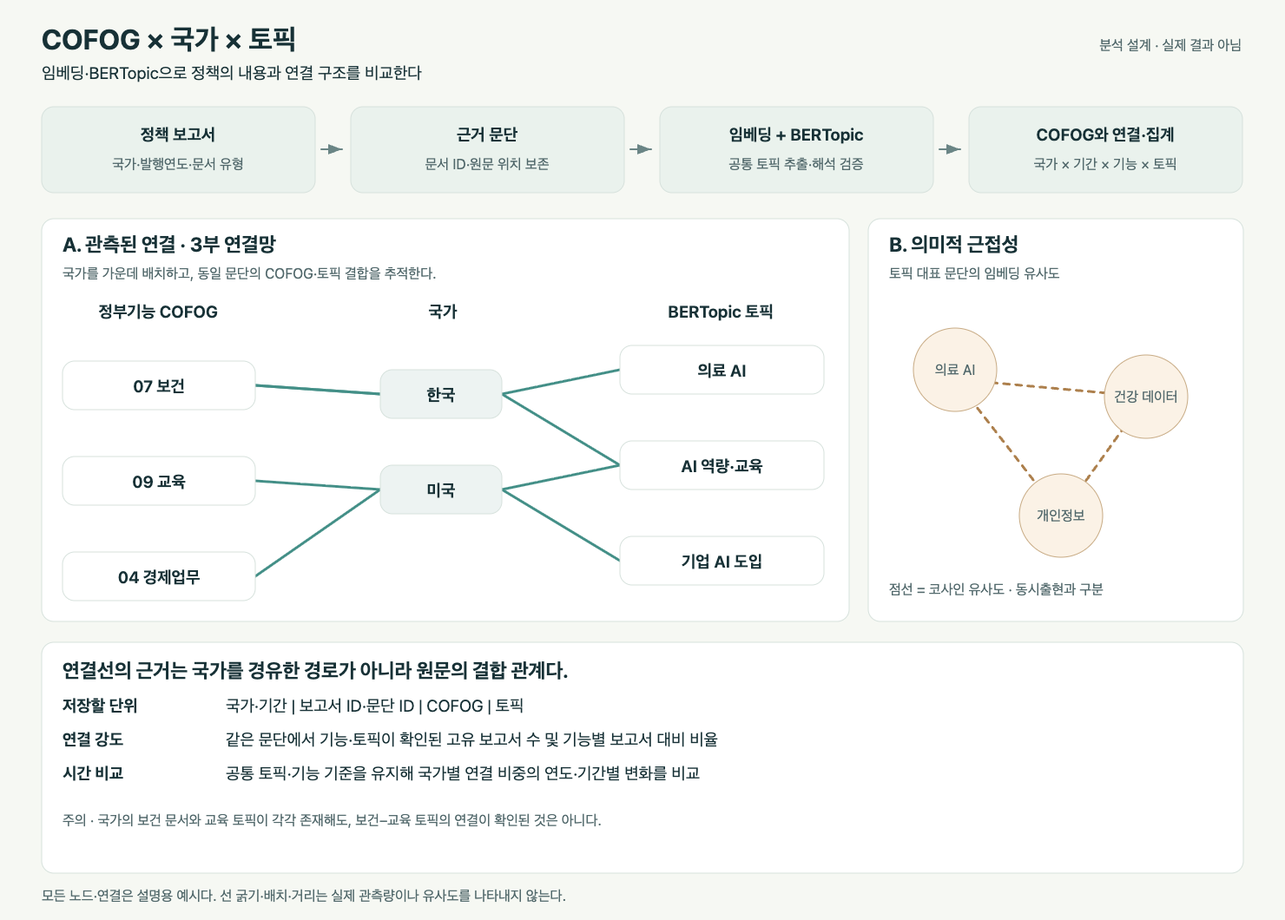
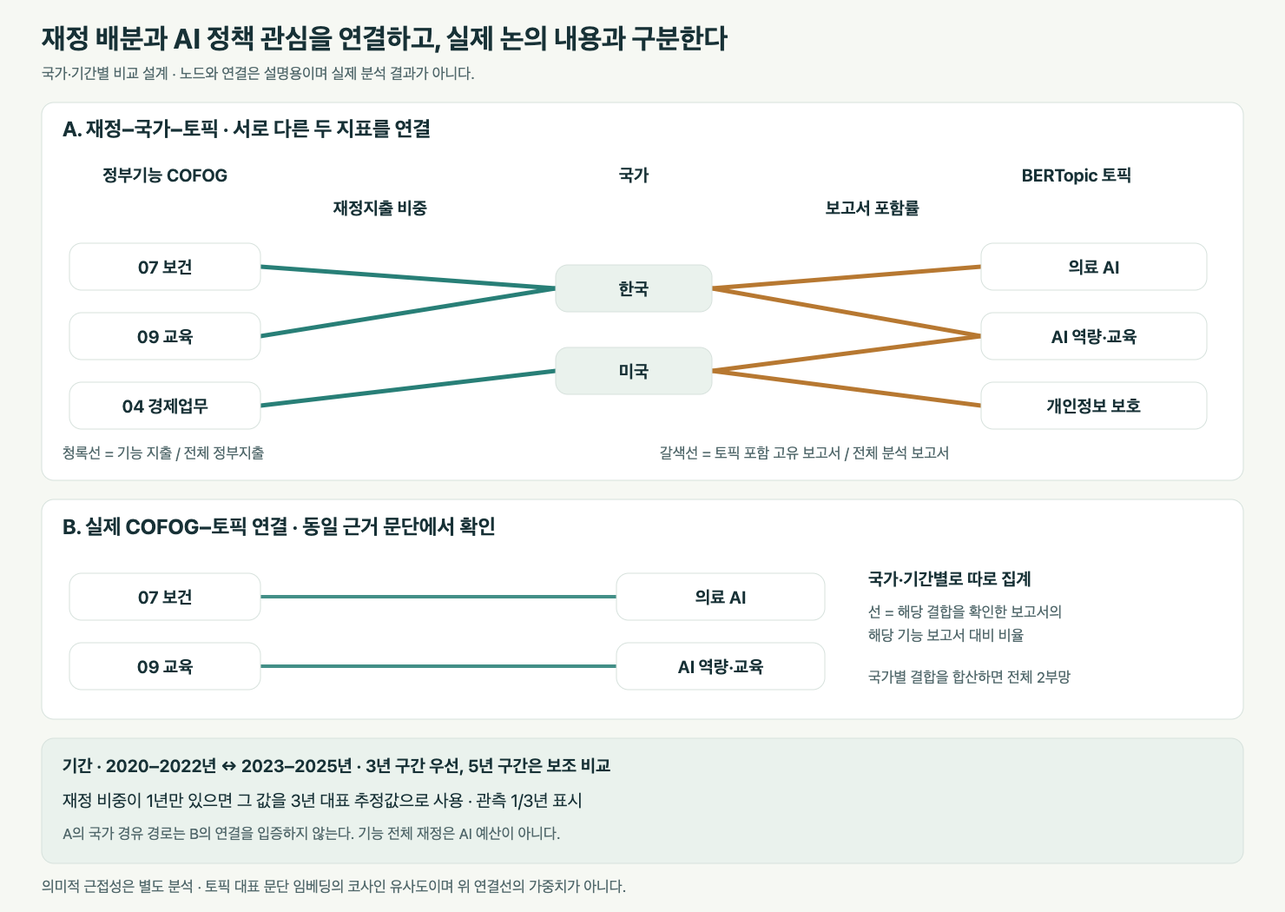
Separate fiscal attention network from evidence links and define three-year estimates

diff --git a/assets/research/cofog-ai-policy/index.html b/assets/research/cofog-ai-policy/index.html
@@ -5,15 +5,13 @@
 
 .two-by-two{margin:24px 0}.axis-y,.axis-x{font-size:14px;font-weight:700;padding:12px 0}.axis-x{text-align:center}.quadrant-grid{display:grid;grid-template-columns:1fr 1fr;border:1px solid var(--line);border-radius:12px;overflow:hidden}.quadrant-cell{padding:22px;min-height:168px;background:white}.quadrant-cell:nth-child(odd){border-right:2px dashed #8da9a1}.quadrant-cell:nth-child(-n+2){border-bottom:2px dashed #8da9a1}.quadrant-cell h4{font-size:18px;line-height:1.5;margin:10px 0}.quadrant-cell p{font-size:14px;margin-bottom:0}.quadrant-code{font-size:12px;color:var(--muted)}.q-both{background:#eaf2ed}.q-fiscal{background:#fbf2e6}.q-discussion{background:#edf2f5}.q-low{background:#f7f8f5}figcaption{font-size:13px;color:var(--muted);margin-top:12px}.chart-tabs{display:flex;gap:8px;flex-wrap:wrap;margin:20px 0}.chart-tabs button{background:white;border:1px solid var(--line);border-radius:8px;padding:10px 16px;font:inherit;color:var(--ink);cursor:pointer}.chart-tabs button[aria-pressed=true]{background:var(--teal);color:white;border-color:var(--teal)}.chart-filters{display:grid;grid-template-columns:repeat(2,minmax(0,1fr));gap:12px 20px}.chart-filters label{margin:0;font-weight:600}.chart-filters select{display:block;width:100%;min-width:0;padding:10px;margin-top:6px;background:white;border:1px solid var(--line);border-radius:8px;font:inherit;color:var(--ink)}.chart-filters [hidden]{display:none}.fiscal-chart{background:white;overflow-x:auto;min-height:120px;position:relative}.fiscal-chart svg{display:block;width:100%;height:auto;min-width:560px}.chart-tooltip{position:fixed;z-index:8;max-width:300px;padding:12px 16px;border:1px solid var(--line);border-radius:8px;background:#173b3c;color:white;box-shadow:0 4px 18px #0002;font-size:13px;pointer-events:none}.chart-mark:focus{outline:2px solid var(--gold)}.chart-mark{cursor:crosshair}#fiscal-data{scroll-margin-top:72px}@media(max-width:760px){.quadrant-cell{padding:12px;min-height:190px}.quadrant-cell h4{font-size:15px}.quadrant-cell p{font-size:12px}.quadrant-code{font-size:11px}.chart-filters{grid-template-columns:1fr}.chart-tabs button{padding:9px 12px;font-size:14px}.fiscal-chart svg{min-width:560px}}
 </style></head><body>
-<header><div class="kicker">COFOG × AI POLICY · 07 NOVEMBER 2026</div><h1>정부기능으로 읽는<br/>국가별 AI 정책</h1><p>국가·시기별 AI 정책 보고서를 공통 정부기능으로 연결하고, 기능별 논의 규모와 토픽·정책 목적·수단의 차이를 비교한다.</p><span class="badge">연구계획 v15</span><span class="badge">국가·시기별 비교</span><span class="badge">본 비교 분석 전</span></header>
+<header><div class="kicker">COFOG × AI POLICY · 07 NOVEMBER 2026</div><h1>정부기능으로 읽는<br/>국가별 AI 정책</h1><p>국가·시기별 AI 정책 보고서를 공통 정부기능으로 연결하고, 기능별 논의 규모와 토픽·정책 목적·수단의 차이를 비교한다.</p><span class="badge">연구계획 v16</span><span class="badge">국가·시기별 비교</span><span class="badge">본 비교 분석 전</span></header>
 <nav aria-label="본문 목차"><a href="#background">배경</a><a href="#question">연구질문</a><a href="#framework">연구 프레임워크</a><a href="#data">데이터</a><a href="#analysis">분석 절차</a><a href="#related-research">핵심 선행연구</a></nav>
 <main>
 <section aria-labelledby="background-title" id="background"><div class="eyebrow">00 / Background</div><h2 id="background-title">정부기능과 AI 정책</h2>
-
 <details id="government-definition"><summary>정부기능·COFOG의 정의</summary>
 <p>정부기능은 정부 활동이 달성하려는 사회·경제적 목적이다. (<span lang="en">Government functions refer to the socioeconomic objectives that government activities seek to achieve.</span>) COFOG 10개 대분류를 공통 비교 기준으로 사용하며, 기술이나 기관 이름보다 실제 공적 목적을 확인한다.</p>
 </details>
-
 <details id="government-classification"><summary>정부기능의 분류 결과 · COFOG 10개 대분류</summary>
 <h3>COFOG 1999의 10개 대분류</h3><p>COFOG 1999의 공식 10개 대분류다. AI 정책 자료의 기능별 분석 결과는 분류·검토 후 제시한다.</p>
 <div class="tablewrap"><table><caption>정부기능의 공식 대분류</caption><thead><tr><th scope="col">코드</th><th scope="col">정부기능</th><th scope="col">영문 명칭</th><th scope="col">활동 예시</th></tr></thead><tbody><tr><td>01</td><td>일반 공공행정</td><td>General public services</td><td>정부 운영·재정·대외 업무 등</td></tr><tr><td>02</td><td>국방</td><td>Defence</td><td>군사·민방위 등</td></tr><tr><td>03</td><td>공공질서 및 안전</td><td>Public order and safety</td><td>경찰·소방·법원·교정 등</td></tr><tr><td>04</td><td>경제업무</td><td>Economic affairs</td><td>산업·농업·에너지·교통 등</td></tr><tr><td>05</td><td>환경보호</td><td>Environmental protection</td><td>폐기물·오염·생물다양성 등</td></tr><tr><td>06</td><td>주택 및 지역사회 편의시설</td><td>Housing and community amenities</td><td>주택개발·지역사회 개발·상수도 등</td></tr><tr><td>07</td><td>보건</td><td>Health</td><td>의료서비스·공중보건 등</td></tr><tr><td>08</td><td>휴양·문화·종교</td><td>Recreation, culture and religion</td><td>체육·문화·방송·종교 등</td></tr><tr><td>09</td><td>교육</td><td>Education</td><td>교육 단계별 서비스·교육 지원 등</td></tr><tr><td>10</td><td>사회보호</td><td>Social protection</td><td>질병·장애·노령·실업·주거 지원 등</td></tr></tbody></table></div>
@@ -26,7 +24,7 @@
 </tbody></table></div></details>
 </section>
 <section id="question"><div class="eyebrow">01 / Research Question</div><h2>이 연구가 답할 질문</h2><p class="lead" id="main-research-question"><strong>국가·시기별 AI 정책은 어떤 정부기능에 초점을 두며, 그 안에서 논의되는 의제와 정책적 접근은 어떻게 달라지는가?</strong> (<span lang="en">Which government functions do AI policies focus on across countries and over time, and how do the agendas and policy approaches within those functions vary?</span>)</p><div class="cards"><div class="card"><h3>분포</h3><p>어느 기능을 얼마나 다루는가?</p></div><div class="card"><h3>내용</h3><p>같은 기능에서 어떤 토픽과 목적·수단이 나타나는가?</p></div><div class="card"><h3>차이와 변화</h3><p>출처와 문서 유형 차이를 고려해도 국가·시기별 차이가 유지되는가?</p></div></div><p class="small">기여의 중심은 비교 가능한 보고서 자료와 검증된 기능·내용 연결이다. 관측된 차이는 정책 사례·국가 여건과 함께 해석해 국가별 제안의 근거로 삼는다.</p></section>
-<section id="framework"><div class="eyebrow">02 / Framework</div><h2>COFOG를 공통축으로 규모와 내용을 연결한다</h2><div class="formula"><strong>국가 × 기간 × 정부기능(COFOG)</strong><br/>보고서 규모·분포 + 토픽·정책 목적·수단 + 문서 유형<br/><span class="small">세부 의제는 BERTopic으로 추출하고, COFOG를 기준으로 연결·비교한다.</span></div><figure id="network-method-figure"><a href="images/cofog_country_topic_method.svg" rel="noopener" target="_blank"><img alt="임베딩과 BERTopic 분석 흐름, 국가를 가운데 둔 COFOG–국가–토픽 3부 연결망, 토픽 간 의미적 유사성을 구분한 분석 설계도" loading="lazy" src="images/cofog_country_topic_method.png" style="display:block;width:100%;height:auto;border:1px solid var(--line);border-radius:12px"/></a><figcaption>설계도 · COFOG–국가–토픽 결합은 같은 근거 문단에서 확인한다. 국가별 결합을 합산하면 COFOG–토픽 2부 연결망이 된다. 의미적 유사성은 별도로 측정한다. 클릭하면 원본을 볼 수 있다.</figcaption></figure><p>보고서에는 국가·발행연도·발행기관·언어·문서 유형을, 근거 문단·정책 조치에는 COFOG와 목적·수단을 기록한다. 원문 위치를 보존해 보고서 단위로 연결한다.</p><div class="tablewrap"><table><thead><tr><th scope="col">분석 차원</th><th scope="col">측정할 내용</th><th scope="col">주요 결과</th></tr></thead><tbody><tr><td>논의 규모</td><td>고유 보고서 수와 기능별 문서 포함률</td><td>COFOG별 분포·국가 비교</td></tr><tr><td>정책 내용</td><td>기능 내부 토픽과 명시 목적·수단</td><td>COFOG × 토픽, COFOG × 목적·수단</td></tr><tr><td>문서 유형</td><td>전략·계획 / 법령·규제 / 사업 지침 / 현황·평가 / 제안·권고</td><td>유형별 구성과 같은 유형끼리의 비교</td></tr></tbody></table></div><p class="small">COFOG와 토픽은 다대다로 연결한다. 한 보고서에 함께 등장했다는 이유만으로 모든 기능·토픽을 연결하지 않는다.</p><details id="measurement-rules"><summary>집계 기준 · 문서 포함률과 토픽 비중</summary><ul><li><strong>기능별 포함률</strong>은 해당 기능을 다루는 고유 보고서 수를 같은 국가·기간의 전체 분석 보고서 수로 나눈다. 보고서는 기능마다 한 번씩 집계하며 포함률 합은 100%를 넘을 수 있다.</li><li><strong>토픽 비중</strong>은 해당 기능에 연결된 문단 중 각 BERTopic 토픽에 속한 문단의 비율을 보고서별로 구한 뒤 동등 가중 평균한다. 미할당 문단도 분모에 남기고 별도 표시한다. 이는 문서 포함률이나 STM의 기대 토픽 비중과 다른 지표다.</li><li><strong>목적·수단</strong>은 해당 기능 보고서 중 각 항목을 명시한 보고서의 비율로 비교한다. 원문 조치 수와 보고서 수를 혼합하지 않는다.</li></ul></details></section>
+<section id="framework"><div class="eyebrow">02 / Framework</div><h2>COFOG를 공통축으로 규모와 내용을 연결한다</h2><div class="formula"><strong>국가 × 기간 × 정부기능(COFOG)</strong><br/>보고서 규모·분포 + 토픽·정책 목적·수단 + 문서 유형<br/><span class="small">세부 의제는 BERTopic으로 추출하고, COFOG를 기준으로 연결·비교한다.</span></div><figure id="network-method-figure"><a href="images/cofog_country_topic_method.svg" rel="noopener" target="_blank"><img alt="재정지출 비중으로 연결한 COFOG–국가, 보고서 포함률로 연결한 국가–토픽, 동일 원문 근거로 확인한 COFOG–토픽을 구분한 방법론 도식" loading="lazy" src="images/cofog_country_topic_method.png" style="display:block;width:100%;height:auto;border:1px solid var(--line);border-radius:12px"/></a><figcaption>A는 재정 배분과 정책 관심을 국가로 연결한 탐색 그림이고, B는 같은 근거 문단에서 확인한 기능–토픽 연결망이다. 두 종류의 선은 색·범례를 따로 사용하며, A의 경로를 B의 실제 연결로 해석하지 않는다. 도식은 설명용이며 클릭하면 원본을 볼 수 있다.</figcaption></figure><p><strong>두 연결망을 구분한다.</strong> 정부기능–국가는 전체 정부지출 대비 기능별 지출 비중으로, 국가–토픽은 전체 분석 보고서 대비 토픽 포함 고유 보고서의 비율로 연결한다. 실제 COFOG–토픽 연결은 동일 문단에서 두 항목이 확인된 고유 보고서의 비율을 해당 기능 보고서 기준으로 계산한다.</p><p>보고서에는 국가·발행연도·발행기관·언어·문서 유형을, 근거 문단·정책 조치에는 COFOG와 목적·수단을 기록한다. 원문 위치를 보존해 보고서 단위로 연결한다.</p><div class="tablewrap"><table><thead><tr><th scope="col">분석 차원</th><th scope="col">측정할 내용</th><th scope="col">주요 결과</th></tr></thead><tbody><tr><td>논의 규모</td><td>고유 보고서 수와 기능별 문서 포함률</td><td>COFOG별 분포·국가 비교</td></tr><tr><td>정책 내용</td><td>기능 내부 토픽과 명시 목적·수단</td><td>COFOG × 토픽, COFOG × 목적·수단</td></tr><tr><td>문서 유형</td><td>전략·계획 / 법령·규제 / 사업 지침 / 현황·평가 / 제안·권고</td><td>유형별 구성과 같은 유형끼리의 비교</td></tr></tbody></table></div><p class="small">COFOG와 토픽은 다대다로 연결한다. 한 보고서에 함께 등장했다는 이유만으로 모든 기능·토픽을 연결하지 않는다.</p><details id="measurement-rules"><summary>집계 기준 · 문서 포함률과 토픽 비중</summary><ul><li><strong>기능별 포함률</strong>은 해당 기능을 다루는 고유 보고서 수를 같은 국가·기간의 전체 분석 보고서 수로 나눈다. 보고서는 기능마다 한 번씩 집계하며 포함률 합은 100%를 넘을 수 있다.</li><li><strong>토픽 비중</strong>은 해당 기능에 연결된 문단 중 각 BERTopic 토픽에 속한 문단의 비율을 보고서별로 구한 뒤 동등 가중 평균한다. 미할당 문단도 분모에 남기고 별도 표시한다. 이는 문서 포함률이나 STM의 기대 토픽 비중과 다른 지표다.</li><li><strong>목적·수단</strong>은 해당 기능 보고서 중 각 항목을 명시한 보고서의 비율로 비교한다. 원문 조치 수와 보고서 수를 혼합하지 않는다.</li></ul></details><details id="period-rules"><summary>기간·결측 처리 · 2023년 기준 3년 구간</summary><p><strong>주 비교는 2020~2022년과 2023~2025년</strong>이며, 이전 기간도 같은 3년 간격으로 묶는다. 2023년은 구간 경계이며 변화의 원인으로 단정하지 않는다. 5년 구간은 보조 비교로 사용한다.</p><p>재정지출 비중의 기간 대표값은 연도별 비중의 평균이다. 3년 중 1년만 관측되면 그 값을 미관측 연도에도 적용한 단순 추정값으로 사용한다. 2년이 관측되면 두 연도 평균으로 나머지 연도를 채운다. 관측이 없으면 추정하지 않는다.</p><p class="small">예시 · 2023년 보건 지출 비중만 15%라면 2023~2025년 대표값은 15%이며 ‘추정·1/3년 관측’으로 표시한다. 추정은 관측된 비중이 유지된다는 가정이며 추세 예측이 아니다. 추정선은 점선으로 구분하고 완전 관측 구간만으로도 비교한다.</p><p>보고서 포함률은 해당 기간에 확보한 고유 보고서로 계산하며 연도별 확보 현황을 표시한다. 미확보 연도의 보고서 건수를 늘려 채우지 않는다. 시기가 지나지 않은 미래 연도는 별도 전망으로 구분한다.</p></details></section>
 <section id="data"><div class="eyebrow">03 / Data</div><h2>비교 가능한 AI 정책 보고서 표본을 확정한다</h2>
 <p>본문·발행일·국가·출처가 확인되는 AI 정책 보고서를 분석한다. 공식 정부 문서를 주 분석으로 삼고, 외부 기관의 평가·권고는 별도로 비교한다. 현재 후보 자료는 최종 분석 표본이 아니다.</p>
 <details id="country-inventory"><summary>현재 후보 자료 · 최종 보고서 표본과 구분</summary><p>기존 입력 후보 116,992건에는 문서·사건·이니셔티브·유형 미기재 기록이 혼재한다. 본문 확보율과 국가·연도·문서 유형을 확인한 뒤 분석 대상과 기간을 확정한다. 후보 기록 수를 정책 보고서 수로 해석하지 않는다.</p><p><a download="" href="data/country_inventory_20261107.csv">국가별 후보 자료 집계 CSV</a></p></details>
@@ -45,6 +43,6 @@
 <details id="fiscal-values"><summary>선택한 그래프의 수치 표</summary><div class="tablewrap"><table><thead><tr><th scope="col">항목</th><th scope="col">전체 지출 대비 (%)</th><th scope="col">지출액 (백만 자국통화)</th><th scope="col">통화</th><th scope="col">자료 상태</th></tr></thead><tbody id="fiscal-table-body"></tbody></table></div></details>
 </div>
 <p class="small">국가 간 비교는 전체 지출 대비 비중을 사용한다. 금액은 각 국가의 명목 지출액이다. 관측값이 없는 항목은 0으로 표시하지 않는다.</p><p><a download="" href="data/fiscal/cofog_expenditure_20261107.csv">재정 데이터 CSV</a> · <a href="https://data-explorer.oecd.org/vis?df%5Bag%5D=OECD.SDD.NAD&amp;df%5Bid%5D=DSD_NASEC10%40DF_TABLE11" rel="noopener" target="_blank">출처 OECD</a><span class="small"> · 2026년 11월 7일 조회</span></p></details></section>
-<section id="analysis"><div class="eyebrow">04 / Methods</div><h2>분류·토픽·비교를 원문 근거와 검증으로 연결한다</h2><div class="tablewrap"><table><thead><tr><th scope="col">분석 단계</th><th scope="col">핵심 절차</th></tr></thead><tbody><tr><td>1 · 비교 자료 확정</td><td>국가·기간·출처·언어·문서 유형을 확인하고 중복·개정판을 정리한다. 공식 정부 문서를 주 분석으로 삼고 비교 가능한 국가·기간을 정한다.</td></tr><tr><td>2 · COFOG·목적·수단 분류</td><td>근거 문단에 기능과 정책 속성을 부여한다. 두 사람의 독립 표본 코딩과 대조해 기능별 정밀도·재현율과 분류자 간 일치도를 확인한다.</td></tr><tr><td>3 · 임베딩·BERTopic</td><td>전체 국가·기간에 공통 모형을 적용한다. 다국어 임베딩, 군집, c-TF-IDF로 토픽을 추출하고 대표 문단·설정 변경·미할당 비율로 해석과 안정성을 점검한다.</td></tr><tr><td>4 · 국가·시기 비교</td><td>기능별 보고서 수·포함률과 토픽·문서 유형·목적·수단 구성을 비교한다. 상대관심지수와 구성 유사성을 계산하고 연도·기간별 변화를 제시한다.</td></tr><tr><td>5 · 결과 검증·정책 해석</td><td>출처·문서 유형·기간·문서 계열 가중치를 바꿔도 주요 차이가 유지되는지 확인한다. 정책 원문과 국가 여건을 검토해 국가별 제안으로 연결한다.</td></tr></tbody></table></div><h3>국가 비교는 상대적 집중과 구성 유사성으로 본다</h3><div class="cards"><div class="card"><h3>상대적 집중 · RCA 방식</h3><p>같은 기능에서 특정 토픽을 다룬 보고서의 비율을 비교집단 전체 비율로 나눈다. 1보다 크면 관측 자료에서 상대적으로 두드러진 관심을 뜻한다.</p></div><div class="card"><h3>국가 간 구성 유사성</h3><p>같은 기간의 국가별 COFOG × 토픽 비중 벡터를 코사인 유사도로 비교한다. 전체 정책 의제 구성이 비슷한 국가를 확인한다.</p></div><div class="card"><h3>토픽의 의미적 근접성</h3><p>토픽 대표 문단 임베딩의 코사인 유사도로 내용의 가까움을 측정한다. 함께 관측된 연결이나 국가 간 구성 유사성과 구분한다.</p></div></div><details id="country-comparison-rules"><summary>상대관심지수의 정의와 해석</summary><p><strong>상대관심지수 = 해당 국가·기능 보고서의 토픽 포함률 ÷ 비교집단 전체의 같은 기능 보고서의 토픽 포함률</strong></p><p>같은 문단에서 기능과 토픽이 확인된 고유 보고서를 한 번씩 집계한다. 비교집단 비율은 해당 국가를 포함한 비교국 보고서를 합쳐 계산한다. 국가별 동일 가중 기준에서도 주요 양상이 유지되는지 확인한다.</p><p class="small">복수 분류 보고서에 맞게 RCA를 응용한 지표이며 정책 역량·성과·부족분을 뜻하지 않는다. 건수와 분모를 함께 제시하고, 분모가 0이면 계산하지 않는다. 표본이 적은 항목은 별도 표시한다.</p><p class="small"><a href="https://wits.worldbank.org/WITS/docs/wto_unctad12_e.pdf" rel="noopener" target="_blank">RCA 원형 · WTO·UNCTAD 무역정책 분석 지침</a></p></details><p class="small">분석 대상은 문서에 나타난 관심과 정책 설계다. 실제 도입률·집행 성과·인과효과를 측정하지 않으며, 발행연도를 정책 시행연도로 간주하지 않는다. 관측되지 않은 문서와 국가별 공개 관행의 차이는 남을 수 있다.</p></section>
+<section id="analysis"><div class="eyebrow">04 / Methods</div><h2>분류·토픽·비교를 원문 근거와 검증으로 연결한다</h2><div class="tablewrap"><table><thead><tr><th scope="col">분석 단계</th><th scope="col">핵심 절차</th></tr></thead><tbody><tr><td>1 · 비교 자료 확정</td><td>국가·기간·출처·언어·문서 유형을 확인하고 중복·개정판을 정리한다. 공식 정부 문서를 주 분석으로 삼고 비교 가능한 국가·기간을 정한다.</td></tr><tr><td>2 · COFOG·목적·수단 분류</td><td>근거 문단에 기능과 정책 속성을 부여한다. 두 사람의 독립 표본 코딩과 대조해 기능별 정밀도·재현율과 분류자 간 일치도를 확인한다.</td></tr><tr><td>3 · 임베딩·BERTopic</td><td>전체 국가·기간에 공통 모형을 적용한다. 다국어 임베딩, 군집, c-TF-IDF로 토픽을 추출하고 대표 문단·설정 변경·미할당 비율로 해석과 안정성을 점검한다.</td></tr><tr><td>4 · 국가·시기 비교</td><td>2023년을 경계로 한 3년 구간에서 보고서 분포와 내용을 비교한다. 재정–국가–토픽 탐색망과 원문 근거의 COFOG–토픽 연결망을 별도로 제시한다. 상대관심지수·구성 유사성과 기간별 변화도 확인한다.</td></tr><tr><td>5 · 결과 검증·정책 해석</td><td>출처·문서 유형·기간·문서 계열 가중치를 바꿔도 주요 차이가 유지되는지 확인한다. 정책 원문과 국가 여건을 검토해 국가별 제안으로 연결한다.</td></tr></tbody></table></div><h3>국가 비교는 상대적 집중과 구성 유사성으로 본다</h3><div class="cards"><div class="card"><h3>상대적 집중 · RCA 방식</h3><p>같은 기능에서 특정 토픽을 다룬 보고서의 비율을 비교집단 전체 비율로 나눈다. 1보다 크면 관측 자료에서 상대적으로 두드러진 관심을 뜻한다.</p></div><div class="card"><h3>국가 간 구성 유사성</h3><p>같은 기간의 국가별 COFOG × 토픽 비중 벡터를 코사인 유사도로 비교한다. 전체 정책 의제 구성이 비슷한 국가를 확인한다.</p></div><div class="card"><h3>토픽의 의미적 근접성</h3><p>토픽 대표 문단 임베딩의 코사인 유사도로 내용의 가까움을 측정한다. 함께 관측된 연결이나 국가 간 구성 유사성과 구분한다.</p></div></div><details id="country-comparison-rules"><summary>상대관심지수의 정의와 해석</summary><p><strong>상대관심지수 = 해당 국가·기능 보고서의 토픽 포함률 ÷ 비교집단 전체의 같은 기능 보고서의 토픽 포함률</strong></p><p>같은 문단에서 기능과 토픽이 확인된 고유 보고서를 한 번씩 집계한다. 비교집단 비율은 해당 국가를 포함한 비교국 보고서를 합쳐 계산한다. 국가별 동일 가중 기준에서도 주요 양상이 유지되는지 확인한다.</p><p class="small">복수 분류 보고서에 맞게 RCA를 응용한 지표이며 정책 역량·성과·부족분을 뜻하지 않는다. 건수와 분모를 함께 제시하고, 분모가 0이면 계산하지 않는다. 표본이 적은 항목은 별도 표시한다.</p><p class="small"><a href="https://wits.worldbank.org/WITS/docs/wto_unctad12_e.pdf" rel="noopener" target="_blank">RCA 원형 · WTO·UNCTAD 무역정책 분석 지침</a></p></details><p class="small">분석 대상은 문서에 나타난 관심과 정책 설계다. 실제 도입률·집행 성과·인과효과를 측정하지 않으며, 발행연도를 정책 시행연도로 간주하지 않는다. 관측되지 않은 문서와 국가별 공개 관행의 차이는 남을 수 있다.</p></section>
 <section id="related-research"><div class="eyebrow">05 / Related Research</div><h2>선행연구에서 이어받는 것과 보탤 것</h2><p>기존의 기능별 AI 사례 분석과 정책 텍스트 분석을 연결한다. 기여는 비교 가능한 코퍼스와 검증된 기능·토픽 매핑에 있다.</p><details id="core-literature"><summary>핵심 선행연구 · 원문과 연구의 관계</summary><div class="tablewrap"><table><thead><tr><th scope="col">선행연구</th><th scope="col">자료·방법</th><th scope="col">우리 연구와의 관계</th></tr></thead><tbody><tr><td><a href="https://www.cambridge.org/core/services/aop-cambridge-core/content/view/0648BCA4421438C2F0674B0B5C39C1FD/S0304413000014697a.pdf/quantifying_economic_policy_unsupervised_learning_on_archival_evidence_from_the_united_kingdom_19832021.pdf" rel="noopener" target="_blank">Popa (2024), Quantifying economic policy: Unsupervised learning on archival evidence from the United Kingdom, 1983–2021</a></td><td>영국 Command Papers 4,366건의 주제 분석과 COFOG 지출 추세 비교. 내각회의록도 분석한다.</td><td>정책 텍스트의 의제 변화와 재정 추세를 비교한다. 본 연구는 공통 토픽의 국가·시기 비교로 확장한다.</td></tr><tr><td><a href="https://interoperable-europe.ec.europa.eu/sites/default/files/inline-files/JRC129301_01-1.pdf" rel="noopener" target="_blank">Tangi et al. (2022), AI Watch: European landscape on the use of Artificial Intelligence by the Public Sector</a></td><td>공공부문 AI 활용 사례 686건.</td><td>AI 활용 사례를 COFOG별로 비교한다. 본 연구의 분석 단위는 정책 보고서와 근거 문단이다.</td></tr><tr><td><a href="https://interoperable-europe.ec.europa.eu/sites/default/files/document/2024-04/PSTW%20-%20AI%20and%20blockchain%20in%20the%20European%20Public%20Sector.pdf" rel="noopener" target="_blank">European Commission (2024), Public Sector Tech Watch: Mapping Innovation in the EU Public Services</a></td><td>AI 940건·블록체인 183건. 기술별로 구분한다.</td><td>기능·활용 유형·상태를 교차 집계한다. 사례 수를 보고서 수나 국가 도입률과 동일시하지 않는다.</td></tr><tr><td><a href="https://arxiv.org/pdf/2203.05794" rel="noopener" target="_blank">Grootendorst (2022), BERTopic: Neural topic modeling with a class-based TF-IDF procedure</a></td><td>의미 임베딩·군집화와 c-TF-IDF 기반 토픽 표현.</td><td>본 연구의 토픽 추출 방법이다. 공통 토픽을 COFOG·국가·기간에 연결한다.</td></tr></tbody></table></div><p class="small">AI Watch·PSTW의 표본은 중복될 수 있어 합산하지 않는다. 보고서, 활용 사례, 정책 조치는 서로 다른 분석 단위다. 연구의 최초성이나 정책 효과를 주장하지 않는다.</p><p class="small"><a href="https://maartengr.github.io/BERTopic/getting_started/topicsovertime/topicsovertime.html" rel="noopener" target="_blank">BERTopic 공식 시계열 분석 문서</a> · 원시 빈도는 국가·시기별 자료량에 영향을 받으므로 본 연구의 비교에는 위에서 정의한 정규화 비중을 사용한다.</p></details></section><footer>국가·시기별 AI 정책 보고서의 기능·의제·목적·수단 비교<br/><span>연구계획 · 최종 표본 확정과 분류 검증 후 분석 결과 제시</span><p><a href="https://unstats.un.org/unsd/classifications/cofog/revision" rel="noopener" target="_blank">공식 COFOG</a></p></footer>
 </main><script defer="" src="fiscal-charts.js"></script></body></html>

diff --git a/scripts/draw_cofog_network_method.py b/scripts/draw_cofog_network_method.py
@@ -1,35 +1,43 @@
 from pathlib import Path
 from html import escape
-root=Path(__file__).resolve().parents[1] / 'assets/research/cofog-ai-policy'
-parts=['''<svg xmlns="http://www.w3.org/2000/svg" width="1480" height="1060" viewBox="0 0 1480 1060" role="img" aria-labelledby="title desc"><title id="title">임베딩과 BERTopic을 이용한 COFOG–국가–토픽 분석 설계</title><desc id="desc">정책 보고서를 문단으로 나누어 임베딩과 BERTopic으로 공통 토픽을 추출한다. 근거 문단의 COFOG와 국가를 연결해 세 항목의 결합 관계를 집계한다. 국가를 가운데 둔 3부 연결망과 임베딩 기반 토픽 의미 유사성은 별도로 시각화한다. 모든 연결은 설명용 예시다.</desc><defs><marker id="arrow" markerWidth="10" markerHeight="10" refX="8" refY="3" orient="auto"><path d="M0,0 L0,6 L8,3 z" fill="#6a8585"/></marker></defs><style>text{font-family:-apple-system,BlinkMacSystemFont,'Apple SD Gothic Neo','Noto Sans KR',sans-serif;fill:#173136} .title{font-size:32px;font-weight:700}.h{font-size:23px;font-weight:700}.body{font-size:19px}.small{font-size:16px;fill:#51686b}.label{font-size:19px;font-weight:650}.edge{fill:none;stroke-linecap:round}</style><rect width="1480" height="1060" fill="#f6f8f3"/>''']
-def text(x,y,t,cl='body',anchor='start'):parts.append(f'<text x="{x}" y="{y}" class="{cl}" text-anchor="{anchor}">{escape(t)}</text>')
-def rect(x,y,w,h,fill='#fff',stroke='#d6e1dc',rx=14):parts.append(f'<rect x="{x}" y="{y}" width="{w}" height="{h}" rx="{rx}" fill="{fill}" stroke="{stroke}"/>')
-def line(x1,y1,x2,y2,col='#6a8585',width=2,dash=None,arrow=False):parts.append(f'<path class="edge" d="M{x1},{y1} L{x2},{y2}" stroke="{col}" stroke-width="{width}"'+(f' stroke-dasharray="{dash}"' if dash else '')+(' marker-end="url(#arrow)"' if arrow else '')+'/>')
-text(48,57,'COFOG × 국가 × 토픽', 'title');text(48,91,'임베딩·BERTopic으로 정책의 내용과 연결 구조를 비교한다')
-text(1430,58,'분석 설계 · 실제 결과 아님','small','end')
-labels=[('정책 보고서','국가·발행연도·문서 유형'),('근거 문단','문서 ID·원문 위치 보존'),('임베딩 + BERTopic','공통 토픽 추출·해석 검증'),('COFOG와 연결·집계','국가 × 기간 × 기능 × 토픽')]
-for i,(a,b) in enumerate(labels):
- x=48+i*356;rect(x,123,315,99,'#eaf2ed');text(x+157,162,a,'label','middle');text(x+157,195,b,'small','middle')
- if i<3:line(x+322,172,x+346,172,arrow=True)
-rect(48,252,930,464);rect(1000,252,432,464)
-text(72,290,'A. 관측된 연결 · 3부 연결망','h');text(72,321,'국가를 가운데 배치하고, 동일 문단의 COFOG·토픽 결합을 추적한다.','small')
-for x,t in [(182,'정부기능 COFOG'),(510,'국가'),(830,'BERTopic 토픽')]:text(x,366,t,'label','middle')
-# Edge sets are explicitly schematic, without invented measurements.
-for a,b,c in [(444,454,426),(444,454,536),(554,564,536),(664,564,646)]:
- line(294,a,438,b,'#438f87',3)
- line(578,b,714,c,'#438f87',3)
-for x,ys,labs,w in [(72,[416,526,636],['07 보건','09 교육','04 경제업무'],222),(438,[426,536],['한국','미국'],140),(714,[398,508,618],['의료 AI','AI 역량·교육','기업 AI 도입'],235)]:
- for y,t in zip(ys,labs):rect(x,y,w,56,'#edf3f2' if x==438 else '#fff');text(x+w/2,y+36,t,'label','middle')
-text(1024,290,'B. 의미적 근접성','h');text(1024,321,'토픽 대표 문단의 임베딩 유사도','small')
-line(1100,437,1320,457,'#ad804d',3,'7 7');line(1100,437,1222,594,'#ad804d',3,'7 7');line(1320,457,1222,594,'#ad804d',3,'7 7')
-for x,y,t in [(1100,426,'의료 AI'),(1320,457,'건강 데이터'),(1222,594,'개인정보')]:
- parts.append(f'<circle cx="{x}" cy="{y}" r="48" fill="#fbf2e6" stroke="#c7aa83"/>');text(x,y+6,t,'small','middle')
-text(1024,685,'점선 = 코사인 유사도 · 동시출현과 구분','small')
-rect(48,740,1384,266)
-text(72,781,'연결선의 근거는 국가를 경유한 경로가 아니라 원문의 결합 관계다.','h')
-text(72,820,'저장할 단위','label');text(260,820,'국가·기간 | 보고서 ID·문단 ID | COFOG | 토픽')
-text(72,859,'연결 강도','label');text(260,859,'같은 문단에서 기능·토픽이 확인된 고유 보고서 수 및 기능별 보고서 대비 비율')
-text(72,898,'시간 비교','label');text(260,898,'공통 토픽·기능 기준을 유지해 국가별 연결 비중의 연도·기간별 변화를 비교')
-text(72,951,'주의 · 국가의 보건 문서와 교육 토픽이 각각 존재해도, 보건–교육 토픽의 연결이 확인된 것은 아니다.','small')
-text(48,1038,'모든 노드·연결은 설명용 예시다. 선 굵기·배치·거리는 실제 관측량이나 유사도를 나타내지 않는다.','small')
-parts.append('</svg>');(root/'images/cofog_country_topic_method.svg').write_text(''.join(parts))
+
+root = Path(__file__).resolve().parents[1] / 'assets/research/cofog-ai-policy'
+parts = ['''<svg xmlns="http://www.w3.org/2000/svg" width="1480" height="1050" viewBox="0 0 1480 1050" role="img" aria-labelledby="title desc"><title id="title">재정·정책 관심 연결망과 원문 근거 연결망</title><desc id="desc">상단은 COFOG와 국가를 재정지출 비중으로, 국가와 토픽을 보고서 포함률로 연결한다. 하단은 같은 근거 문단에서 확인된 COFOG와 토픽의 실제 연결을 별도로 나타낸다. 2023년을 경계로 3년 구간을 비교하며 불완전 재정 자료는 관측 비중을 유지하는 단순 추정으로 구분한다. 연결은 설명용 예시다.</desc><style>text{font-family:-apple-system,BlinkMacSystemFont,'Apple SD Gothic Neo','Noto Sans KR',sans-serif;fill:#173136}.title{font-size:32px;font-weight:700}.h{font-size:24px;font-weight:700}.body{font-size:20px}.small{font-size:17px;fill:#51686b}.label{font-size:20px;font-weight:650}.edge{fill:none;stroke-linecap:round}</style><rect width="1480" height="1050" fill="#f6f8f3"/>''']
+
+def text(x,y,value,kind='body',anchor='start'):
+    parts.append(f'<text x="{x}" y="{y}" class="{kind}" text-anchor="{anchor}">{escape(value)}</text>')
+
+def rect(x,y,w,h,fill='#fff'):
+    parts.append(f'<rect x="{x}" y="{y}" width="{w}" height="{h}" rx="14" fill="{fill}" stroke="#d6e1dc"/>')
+
+def edge(x1,y1,x2,y2,color,width=3):
+    parts.append(f'<path class="edge" d="M{x1},{y1} L{x2},{y2}" stroke="{color}" stroke-width="{width}"/>')
+
+def node(x,y,w,label,fill='#fff'):
+    rect(x,y,w,54,fill);text(x+w/2,y+35,label,'label','middle')
+
+text(48,56,'재정 배분과 AI 정책 관심을 연결하고, 실제 논의 내용과 구분한다','title')
+text(48,91,'국가·기간별 비교 설계 · 노드와 연결은 설명용이며 실제 분석 결과가 아니다.','small')
+rect(48,118,1384,435)
+text(72,157,'A. 재정–국가–토픽 · 서로 다른 두 지표를 연결','h')
+text(190,209,'정부기능 COFOG','label','middle');text(730,209,'국가','label','middle');text(1240,209,'BERTopic 토픽','label','middle')
+text(438,247,'재정지출 비중','label','middle');text(1005,247,'보고서 포함률','label','middle')
+for a,b in [(307,332),(387,332),(467,427)]:edge(300,a,640,b,'#287f77',5)
+for a,b in [(332,307),(332,387),(427,387),(427,467)]:edge(820,a,1130,b,'#b77831',5)
+for y,label in [(280,'07 보건'),(360,'09 교육'),(440,'04 경제업무')]:node(80,y,220,label)
+for y,label in [(305,'한국'),(400,'미국')]:node(640,y,180,label,'#eaf2ed')
+for y,label in [(280,'의료 AI'),(360,'AI 역량·교육'),(440,'개인정보 보호')]:node(1130,y,260,label)
+text(72,528,'청록선 = 기능 지출 / 전체 정부지출','small');text(760,528,'갈색선 = 토픽 포함 고유 보고서 / 전체 분석 보고서','small')
+rect(48,575,1384,253)
+text(72,615,'B. 실제 COFOG–토픽 연결 · 동일 근거 문단에서 확인','h')
+edge(300,687,710,687,'#438f87',4);edge(300,767,710,767,'#438f87',4)
+node(80,660,220,'07 보건');node(80,740,220,'09 교육')
+node(710,660,240,'의료 AI');node(710,740,240,'AI 역량·교육')
+text(1000,674,'국가·기간별로 따로 집계','label');text(1000,711,'선 = 해당 결합을 확인한 보고서의','small');text(1000,738,'해당 기능 보고서 대비 비율','small');text(1000,786,'국가별 결합을 합산하면 전체 2부망','small')
+rect(48,850,1384,144,'#eaf2ed')
+text(72,889,'기간 · 2020–2022년 ↔ 2023–2025년 · 3년 구간 우선, 5년 구간은 보조 비교','label')
+text(72,929,'재정 비중이 1년만 있으면 그 값을 3년 대표 추정값으로 사용 · 관측 1/3년 표시','body')
+text(72,966,'A의 국가 경유 경로는 B의 연결을 입증하지 않는다. 기능 전체 재정은 AI 예산이 아니다.','small')
+text(48,1027,'의미적 근접성은 별도 분석 · 토픽 대표 문단 임베딩의 코사인 유사도이며 위 연결선의 가중치가 아니다.','small')
+parts.append('</svg>')
+(root/'images/cofog_country_topic_method.svg').write_text(''.join(parts))
